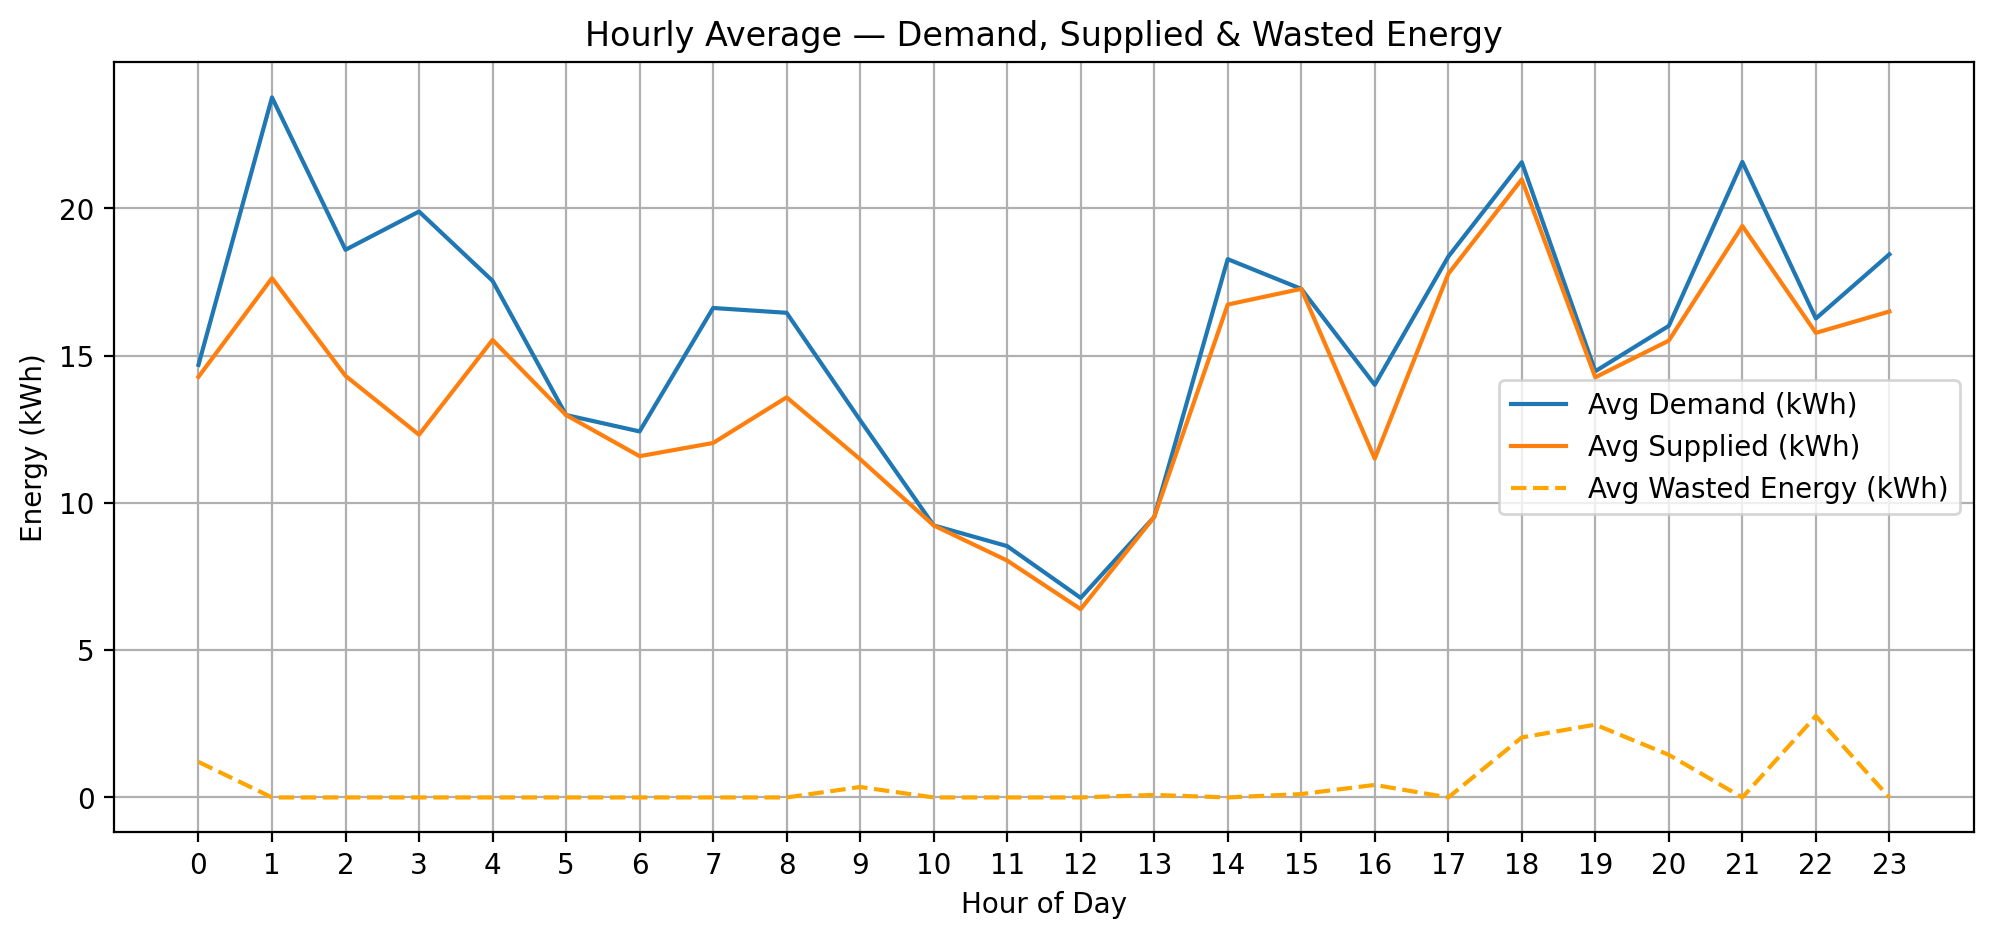
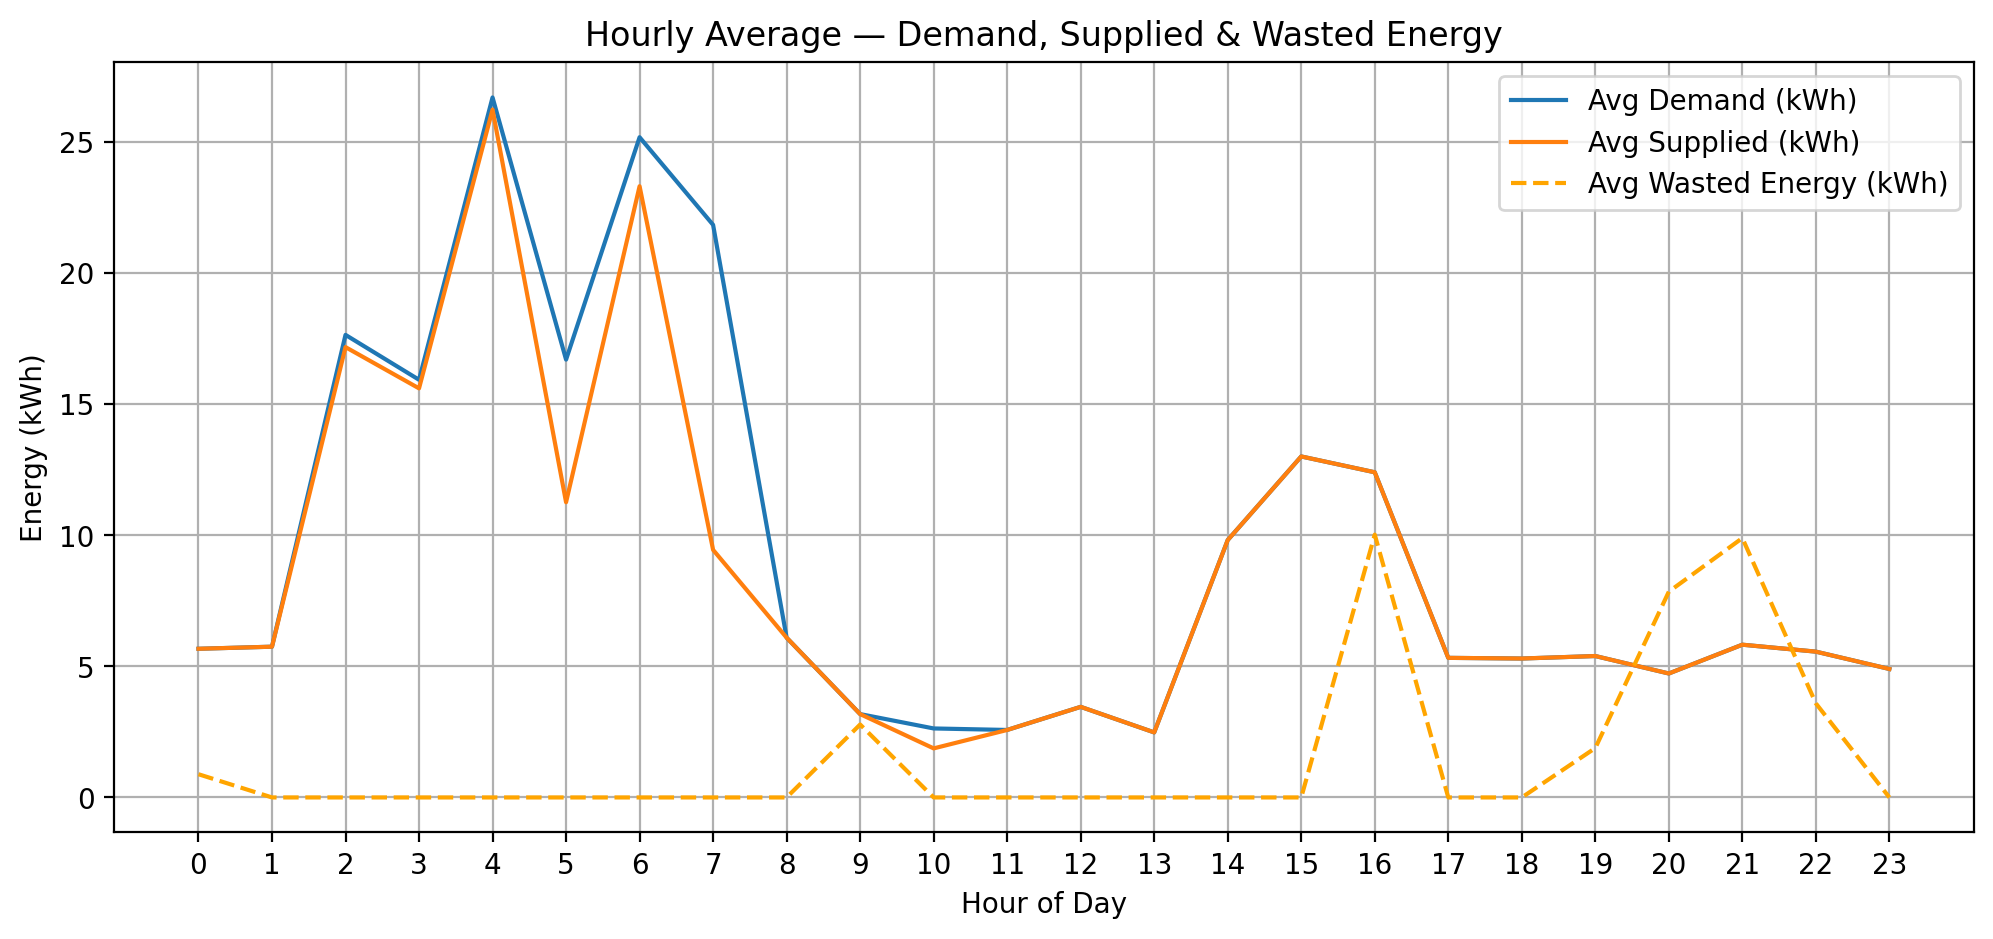
new graphicss

diff --git a/scenarios/base_config.py b/scenarios/base_config.py
@@ -10,13 +10,13 @@ SE_SCENARIO_CONFIG = {
         "NUM_PROSUMERS": 2,
         "ROUND_SLEEP_SECONDS": 10,
         "OFFERS_TIMEOUT": 10,
-        "TRANSMISSION_LIMIT_KW": 35.0,
+        "TRANSMISSION_LIMIT_KW": 35.00,
         "AGENT_LIMITS_KW": {
-            "prosumer": 5.0,
-            "consumer": 3.5,
-            "producer": 35.0,
-            "storage": 35.0,
-            "battery": 35.0,
+            "prosumer": 5.00,
+            "consumer": 3.00,
+            "producer": 35.00,
+            "storage": 35.00,
+            "battery": 35.00,
         },
     },
 
@@ -29,41 +29,42 @@ SE_SCENARIO_CONFIG = {
     },
 
     "PRODUCERS": {
-        "SOLAR_CAPACITY_KW": 50.0,
-        "WIND_CAPACITY_KW": 50.0,
+        "SOLAR_CAPACITY_KW": 50.00,
+        "WIND_CAPACITY_KW": 50.00,
         "SOLAR_EFFICIENCY": 0.40,
         "WIND_CAPACITY_FACTOR": 0.42,
         "PRODUCTION_NOISE_RANGE": (0.95, 1.05),
-        "FAILURE_PROB": 0.2,
+        "FAILURE_PROB": 0.20,
         "FAILURE_ROUNDS_RANGE": (1, 4),
     },
 
     "HOUSEHOLDS": {
         "DEMAND_RANGES": {
-            "night": (0.5, 1.5),
-            "morning": (1.5, 3.0),
-            "afternoon": (2.0, 4.0),
-            "evening": (1.0, 2.5),
+            "night": (0.2, 0.6),
+            "morning": (0.8, 2.0),
+            "afternoon": (0.6, 1.5),
+            "evening": (1.2, 3.5),
         },
-        "PANEL_AREA_RANGE_M2": (15.0, 25.0),
-        "BATTERY_CAPACITY_KWH": 5.0,
-        "BATTERY_CHARGE_RATE_KW": 2.0,
-        "BATTERY_DISCHARGE_RATE_KW": 2.0,
+
+        "PANEL_AREA_RANGE_M2": (15.00, 25.00),
+        "BATTERY_CAPACITY_KWH": 5.00,
+        "BATTERY_CHARGE_RATE_KW": 2.00,
+        "BATTERY_DISCHARGE_RATE_KW": 2.00,
         "BATTERY_EFFICIENCY": 0.95,
     },
 
     "STORAGE": {
-        "CAPACITY_KWH": 50.0,
+        "CAPACITY_KWH": 50.00,
         "EMERGENCY_ONLY": True,
         "ASK_PRICE": 0.25,
         "MAX_PRICE": 0.35,
     },
 
     "ENVIRONMENT": {
-        "BASE_WIND_SPEED": 6.0,
-        "WIND_NOISE_RANGE": (-2.0, 2.0),
-        "BASE_TEMPERATURE": 22.0,
-        "TEMP_VARIATION": 5.0,
+        "BASE_WIND_SPEED": 6.00,
+        "WIND_NOISE_RANGE": (-2.00, 2.00),
+        "BASE_TEMPERATURE": 22.00,
+        "TEMP_VARIATION": 5.00,
     },
 
     "METRICS": {

diff --git a/graphics.py b/graphics.py
@@ -4,7 +4,7 @@ from datetime import datetime, timedelta
 import os
 
 # Load CSV
-file_path = "metrics_logs/final.csv"
+file_path = "metrics_logs/metrics_20251119_220128.csv"
 df = pd.read_csv(file_path)
 
 df['round'] = df['round'].astype(int)
